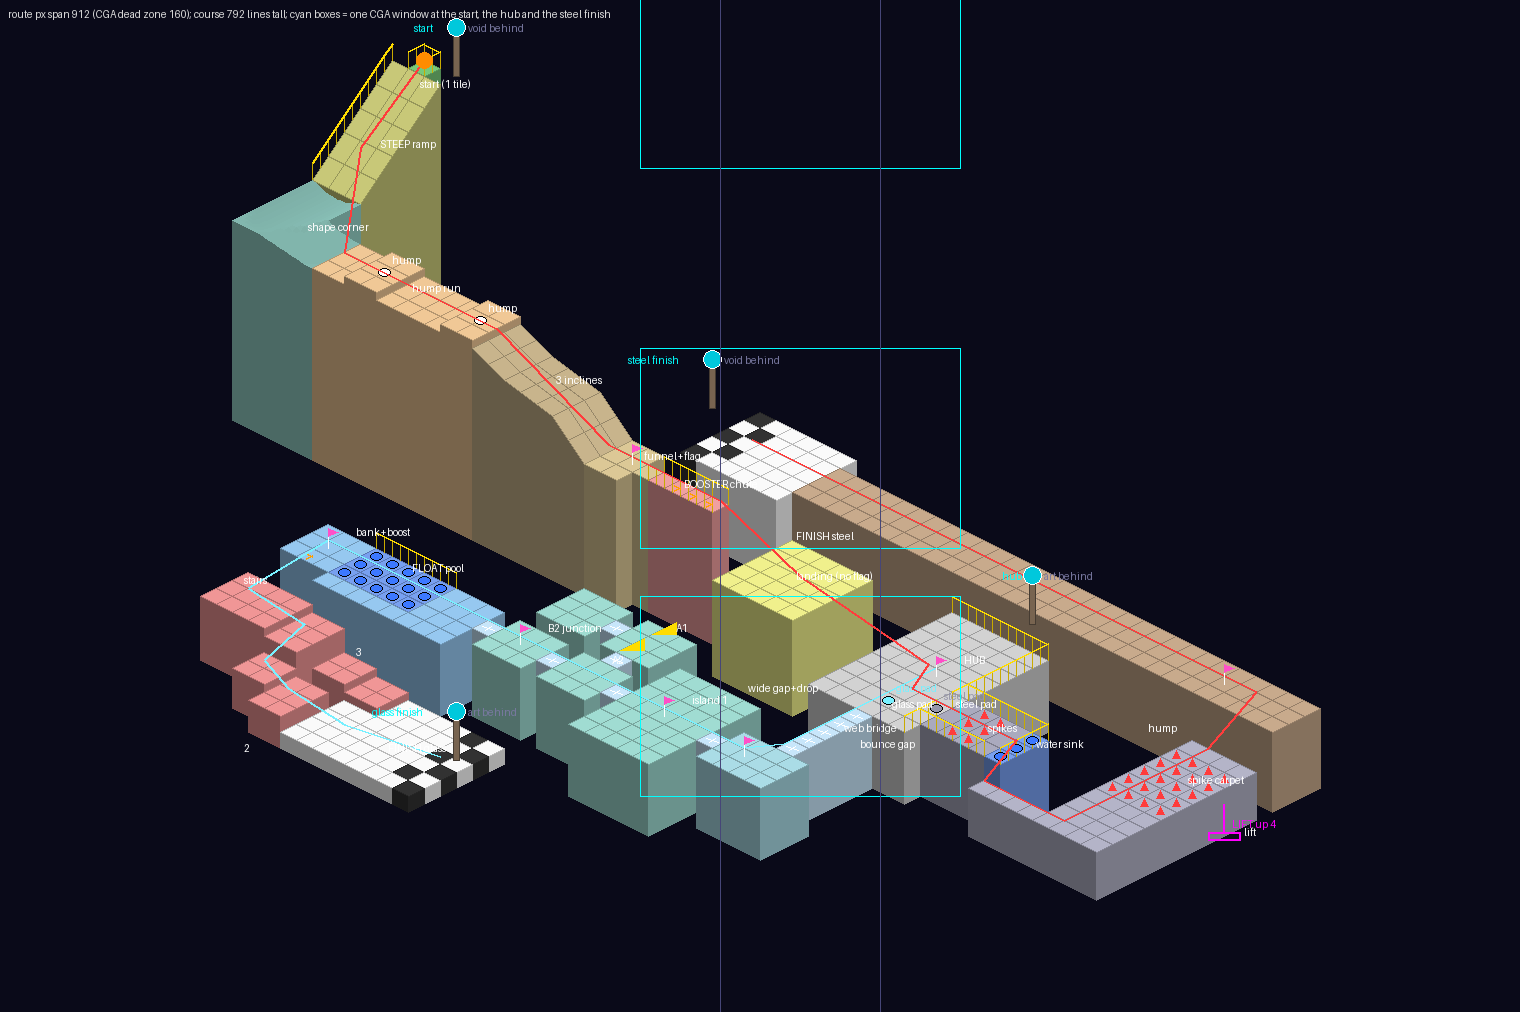
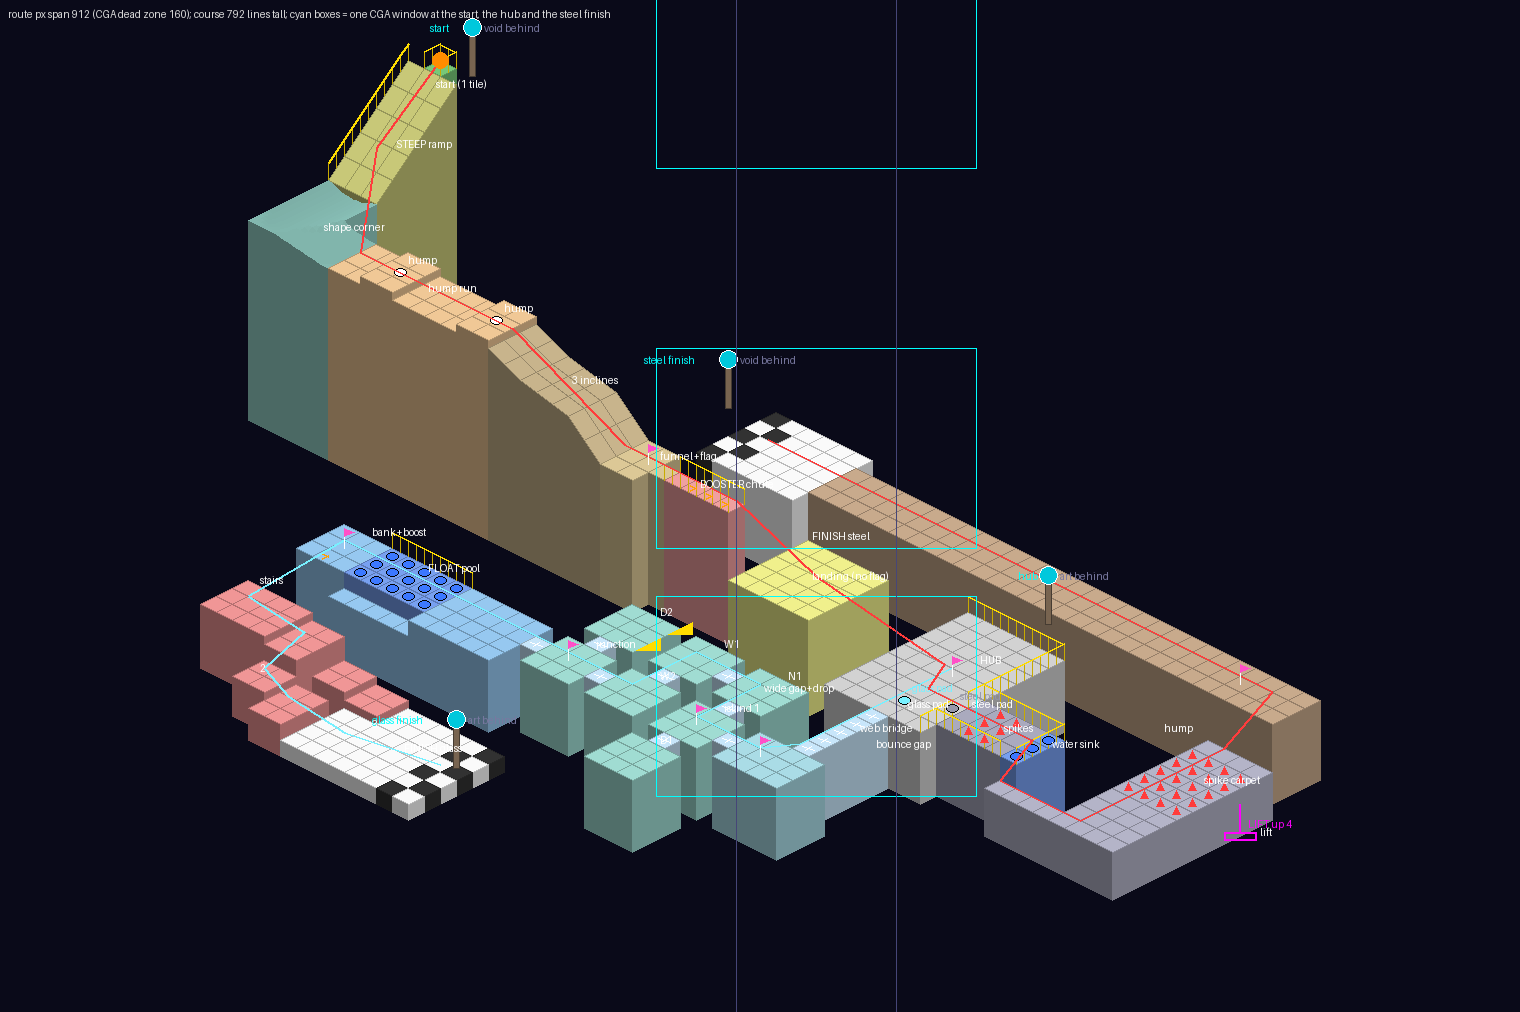
Bonanza DOWN rev 12: glass's maze winds through 3 x 3 islands; the pool's south bank becomes a ledge under the water
The owner's notes: island 1 is 3 x 3 like the others, and the way through
is no longer straight - north off island 1, west, south, west to the
junction - with two dead-end islands. The pool's south bank let a glass
ball roll round the water; it is now a ledge 2 units under the surface,
which still seals the column for steel, shows the water's side, and leaves
a ball off the edge nowhere to go. A guard rail there instead put 5
records in a block (the 4 bound). The stairs moved a row south and the
origin to 304 to make room.

Claude-Session: https://claude.ai/code/session_01Wo8a4suEiDfFPFBsnHYKF3

Changed region(s): [[0.1237, 0.0, 0.8658, 0.8883], [0.2164, 0.4595, 0.2474, 0.4901]]

diff --git a/docs/plans/bonanza-courses/down/sketch.py b/docs/plans/bonanza-courses/down/sketch.py
@@ -215,7 +215,7 @@ for y in range(8, 13):
     for x in range(56, 60):
         mark(x + 0.5, y + 0.5, "spike", "")
 mark(57.5, 6.5, "lift", "LIFT up 4")                         # the LIFT, at the run's north end
-floor("M", 30, 3, 60, 6, Z - 25)                             # the TOP, west, a momentum hump (EXTRA) on it
+floor("M", 30, 3, 59, 6, Z - 25)                             # the TOP, west, a momentum hump (EXTRA) on it
 floor("G", 24, 2, 30, 7, Z - 25)                             # FINISH 1, steel (exit 0), in the north-west
 # 3b. GLASS (south, +y): a WEB BRIDGE, then (rev 10, the owner) WEST at the bridge's height - no lift (it goes to
 # steel, which climbs): a WEB MAZE of solid islands joined by ONE-cell membrane links (glass-only, easy to
@@ -226,33 +226,40 @@ floor("K", 45, 17, 46, 22, Z - 26)                           # the WEB BRIDGE: 1
 for y in range(17, 22):
     mark(45.5, y + 0.5, "crack", "")
 floor("P", 43, 22, 47, 25, Z - 26)                           # the bridge's landing (a flag)
-LINKS = [(42, 23), (36, 23), (34, 21), (32, 23), (32, 19), (28, 23)]
+LINKS = [(42, 23), (40, 21), (38, 19), (36, 21), (34, 23), (30, 23), (40, 25), (32, 21)]
 for lx, ly in LINKS:                                         # the maze's LINKS: one membrane cell each
     floor("K", lx, ly, lx + 1, ly + 1, Z - 26)
     mark(lx + 0.5, ly + 0.5, "crack", "")
-floor("Q", 37, 20, 42, 27, Z - 26)                           # island 1, the old plateau (a flag)
-floor("Q", 33, 22, 36, 25, Z - 26)                           # island A2: the way on (west), and north to A1
-floor("Q", 33, 18, 36, 21, Z - 26)                           # island A1: west to B1, a DEAD END
-floor("Q", 29, 22, 32, 25, Z - 26)                           # island B2: the junction (a flag), west to the pool
-floor("Q", 29, 18, 32, 21, Z - 26)                           # island B1 (dead end)
+# rev 12 (the owner): every island 3 x 3, and the way through WINDS - north off island 1, west, south, west to
+# the junction - with two islands that lead nowhere
+floor("Q", 39, 22, 42, 25, Z - 26)                           # island 1 (a flag): north to N1, south to D1
+floor("Q", 39, 18, 42, 21, Z - 26)                           # N1: west to W1
+floor("Q", 35, 18, 38, 21, Z - 26)                           # W1: south to W2
+floor("Q", 35, 22, 38, 25, Z - 26)                           # W2: west to the junction
+floor("Q", 31, 22, 34, 25, Z - 26)                           # the JUNCTION (a flag): west to the pool, north to D2
+floor("Q", 39, 26, 42, 29, Z - 26)                           # D1, a DEAD END
+floor("Q", 31, 18, 34, 21, Z - 26)                           # D2, a DEAD END
 floor("W", 20, 22, 25, 25, Z - 26)                           # the FLOAT pool, 3 deep, no arch: glass rides across
-rail(20, 22, 25, 22, "guard")                                # a guard rail seals it north, banks south and east
-floor("Y", 20, 25, 25, 26, Z - 26)
-floor("Y", 25, 22, 28, 26, Z - 26)                           # the east bank, where B2's link lands
+rail(20, 22, 25, 22, "guard")                                # a guard rail seals it north; SOUTH (rev 12: the bank
+floor("Y", 20, 25, 25, 26, Z - 28)                           #   gone) a LEDGE 2 under the water: it seals the column
+                                                             #   (steel's bed rule), the water's side is seen over it,
+                                                             #   and a glass ball off the water's edge drops onto it
+                                                             #   and can't climb back - no way round
+floor("Y", 25, 22, 30, 26, Z - 26)                           # the east bank, where the junction's link lands
 for x in range(20, 25):
     for y in range(22, 25):
         mark(x + 0.5, y + 0.5, "water", "")
 floor("Y", 17, 22, 20, 25, Z - 26)                           # the far bank (a flag), and its BOOST south
 mark(18.5, 24.5, "boost", "")
-floor("Z", 17, 27, 21, 30, Z - 27)                           # the STAIR platform past a 2-tile gap, 1 down,
-floor("Z", 21, 27, 23, 30, Z - 28)                           #   and a second step: the FORK
-floor("Z", 23, 27, 25, 29, Z - 31)                           # the STRAIGHT way: 3 (glass shatters),
-floor("Z", 25, 27, 27, 29, Z - 32)                           #   1, then 1 onto the finish
-floor("Z", 21, 30, 23, 32, Z - 30)                           # the way ROUND: 2,
-floor("Z", 23, 30, 25, 33, Z - 31)                           #   1, then 2 onto the finish
-floor("V", 27, 27, 33, 29, Z - 33)                           # FINISH 2, glass (exit 1): an L round the two ways
-floor("V", 25, 29, 33, 33, Z - 33)
-GOAL = {(x, y) for x in range(24, 26) for y in range(2, 7)} | {(x, y) for x in range(31, 33) for y in range(27, 33)}
+floor("Z", 17, 28, 21, 31, Z - 27)                           # the STAIR platform past a 3-tile gap, 1 down,
+floor("Z", 21, 28, 23, 31, Z - 28)                           #   and a second step: the FORK
+floor("Z", 23, 28, 25, 30, Z - 31)                           # the STRAIGHT way: 3 (glass shatters),
+floor("Z", 25, 28, 27, 30, Z - 32)                           #   1, then 1 onto the finish
+floor("Z", 21, 31, 23, 33, Z - 30)                           # the way ROUND: 2,
+floor("Z", 23, 31, 25, 34, Z - 31)                           #   1, then 2 onto the finish
+floor("V", 27, 28, 33, 30, Z - 33)                           # FINISH 2, glass (exit 1): an L round the two ways
+floor("V", 25, 30, 33, 34, Z - 33)
+GOAL = {(x, y) for x in range(24, 26) for y in range(2, 7)} | {(x, y) for x in range(31, 33) for y in range(28, 34)}
 
 # the PROPS the sketch does not model, as the engine's statements (world cells: sketch + OFF)
 def _w(x):
@@ -286,27 +293,28 @@ EXTRA = [
     "prop platform %d %d 4" % (_w(57), _w(6)),
     "hump %d %d %g along y 3 open height 8" % (_w(48), _w(3), Z - 25),
 ]
-GOAL_RECTS = [(24, 2, 26, 7, Z - 25, 0, "steel"), (31, 27, 33, 33, Z - 33, 1, "glass")]
+GOAL_RECTS = [(24, 2, 26, 7, Z - 25, 0, "steel"), (31, 28, 33, 34, Z - 33, 1, "glass")]
 
 START = (4.5, 4.5 - N)
 FLAGS = [(26.5, 12.5, "flag 0", "rubber"), (45.5, 12.5, "flag 1", "rubber"), (44.5, 23.5, "flag 2", "glass"),
-         (39.5, 23.5, "flag 3", "glass"), (30.5, 23.5, "flag 4", "glass"), (18.5, 23.5, "flag 5", "glass"),
+         (40.5, 23.5, "flag 3", "glass"), (32.5, 23.5, "flag 4", "glass"), (18.5, 23.5, "flag 5", "glass"),
          (55.5, 4.5, "flag 6", "steel")]       # (rev 4: no flag at steel's entrance; one on the lift's top too)
 CLOCKS = [(6.5, 4.5 - N, Z, "start", "block"), (46.5, 7.5, Z - 24.5, "hub", "block"), (23.5, 4.5, Z - 23.5, "steel finish", "block"),
-          (33.5, 30.5, Z - 31.5, "glass finish", "block")]
+          (33.5, 31.5, Z - 31.5, "glass finish", "block")]
 FRAMES = {}
 PLACED = {}
 SIGNS = []
 ROUTE = [(4.5, 4.5 - N), (4.5, 8.5 - N), (8.5, 12.5), (18, 12.5), (25, 12.5), (28, 12.5), (32, 12.5), (37, 12.5),
          (45, 12.5), (46, 14.5), (48, 14.5), (52.5, 14.5), (52.5, 16.5), (57.5, 16.5), (57.5, 9), (57.5, 7.5), (57.5, 4.5),
          (47, 4.5), (38, 4.5), (26, 4.5)]
-ROUTE2 = [(45.5, 12.5), (45.5, 17), (45.5, 22), (44.5, 23.5), (39, 23.5), (34.5, 23.5), (30.5, 23.5), (26.5, 23.5),
-          (22, 23.5), (18.5, 23.5), (18.5, 28.5), (22, 28.5), (22, 31), (24, 31.5), (27, 31), (32, 30)]
+ROUTE2 = [(45.5, 12.5), (45.5, 17), (45.5, 22), (44.5, 23.5), (40.5, 23.5), (40.5, 19.5), (36.5, 19.5), (36.5, 23.5),
+          (32.5, 23.5), (27, 23.5),
+          (22, 23.5), (18.5, 23.5), (18.5, 29.5), (22, 29.5), (22, 32), (24, 32.5), (27, 32), (32, 31)]
 LABELS = [(4.5, 4.5, "start (1 tile)"), (4.5, 7, "STEEP ramp"), (5, 12, "shape corner"), (12, 12.5, "hump run"),
           (21, 12.5, "3 inclines"), (26, 12, "funnel+flag"), (29, 12.5, "BOOSTER chute"), (33, 12.5, "wide gap+drop"),
           (36, 12.5, "landing (no flag)"), (40, 12.5, "bounce gap"), (45, 11, "HUB"), (47.5, 14, "steel pad"),
           (50, 14.5, "spikes"), (52.5, 14, "water sink"), (58, 10, "spike carpet"), (57.5, 6, "lift"), (48, 2.5, "hump"), 
-          (25, 1.5, "FINISH steel"), (45.5, 16, "glass pad"), (45.5, 19, "web bridge"), (39, 22, "island 1"), (34, 22, "A2"), (34, 18, "A1"), (30, 22, "B2 junction"),
+          (25, 1.5, "FINISH steel"), (45.5, 16, "glass pad"), (45.5, 19, "web bridge"), (40, 22, "island 1"), (40, 18, "N1"), (36, 18, "W1"), (36, 22, "W2"), (32, 22, "junction"), (40, 26, "D1"), (32, 18, "D2"),
           (22, 22.5, "FLOAT pool"), (18, 22, "bank+boost"), (17, 28, "stairs"), (23, 27, "3"), (21, 32, "2"), (29, 31, "FINISH glass")]
 
 # --- drawing ----------------------------------------------------------------
@@ -528,7 +536,7 @@ HEAD_TXT = """
 course DOWN "Downhill Decision"
 guide                     # a REAL course: held to the course guide's checkable rules
 width 160
-origin 288                # 1,280 px (SPEC.md 130.10.4.2): steel's north-west leg
+origin 304                # 1,280 px (SPEC.md 130.10.4.2): steel's north-west leg
 uses boost spike water
 ball rubber
 music trial               # the owner: Bounce Trial, kept for course 3 (its speaker ring fix: spkring)
